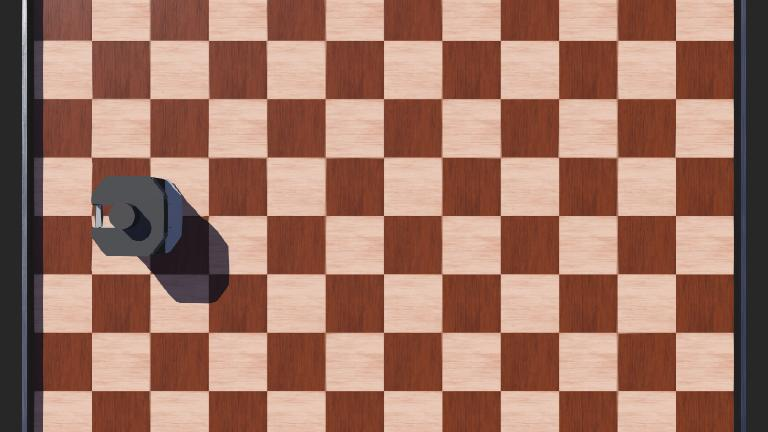
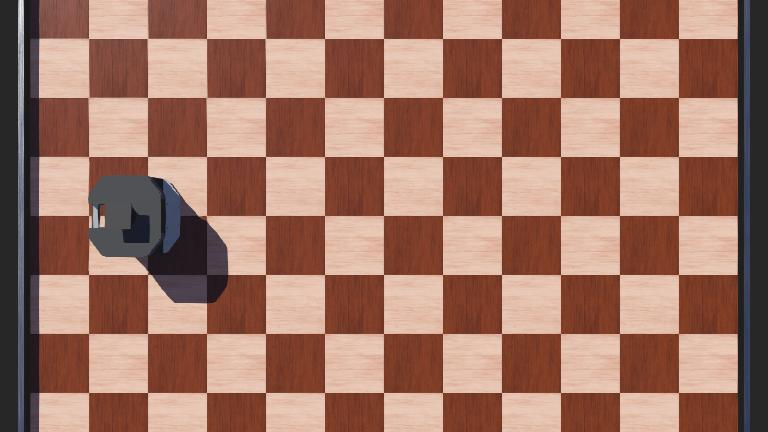
lidar improvements

diff --git a/src/ros381_webots/ros381_webots/lidar_reader.py b/src/ros381_webots/ros381_webots/lidar_reader.py
@@ -53,4 +53,3 @@ class LidarReader:
 
     def step(self):
         rclpy.spin_once(self.node_, timeout_sec=0)
-        # self.pub_scan()
